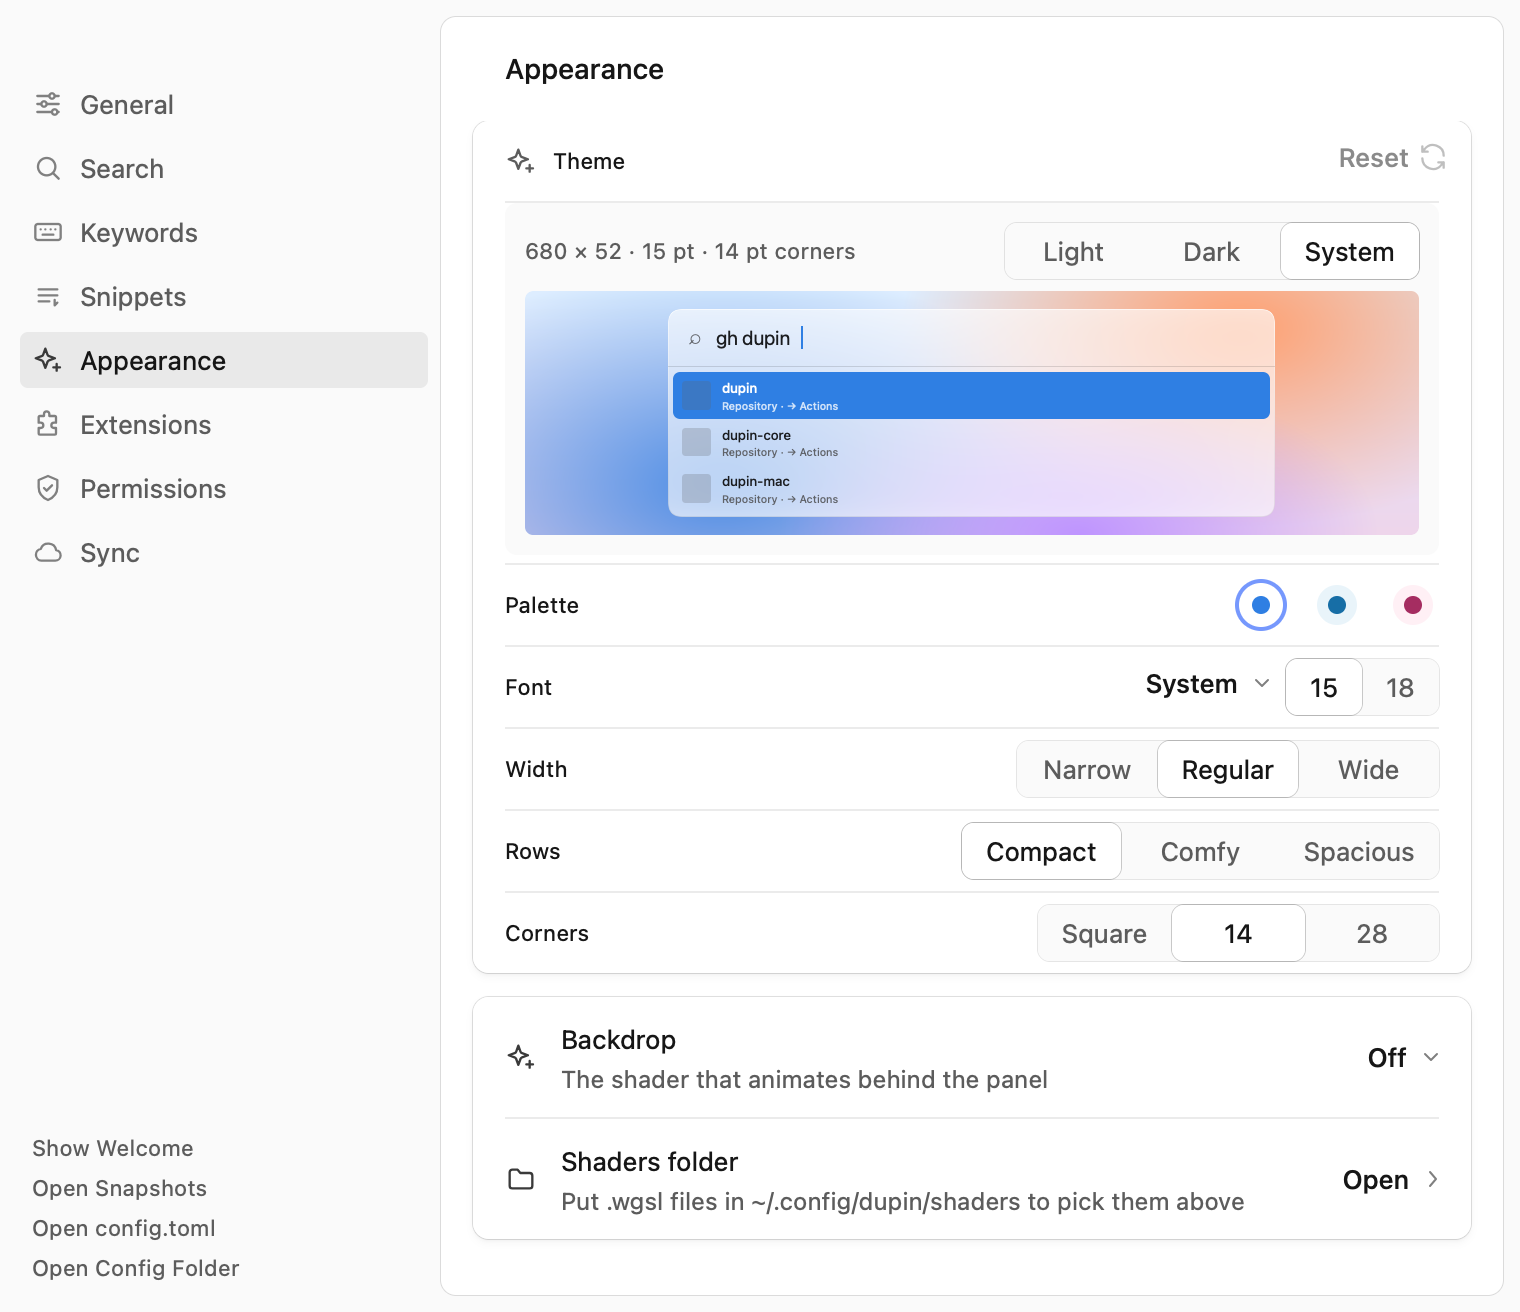
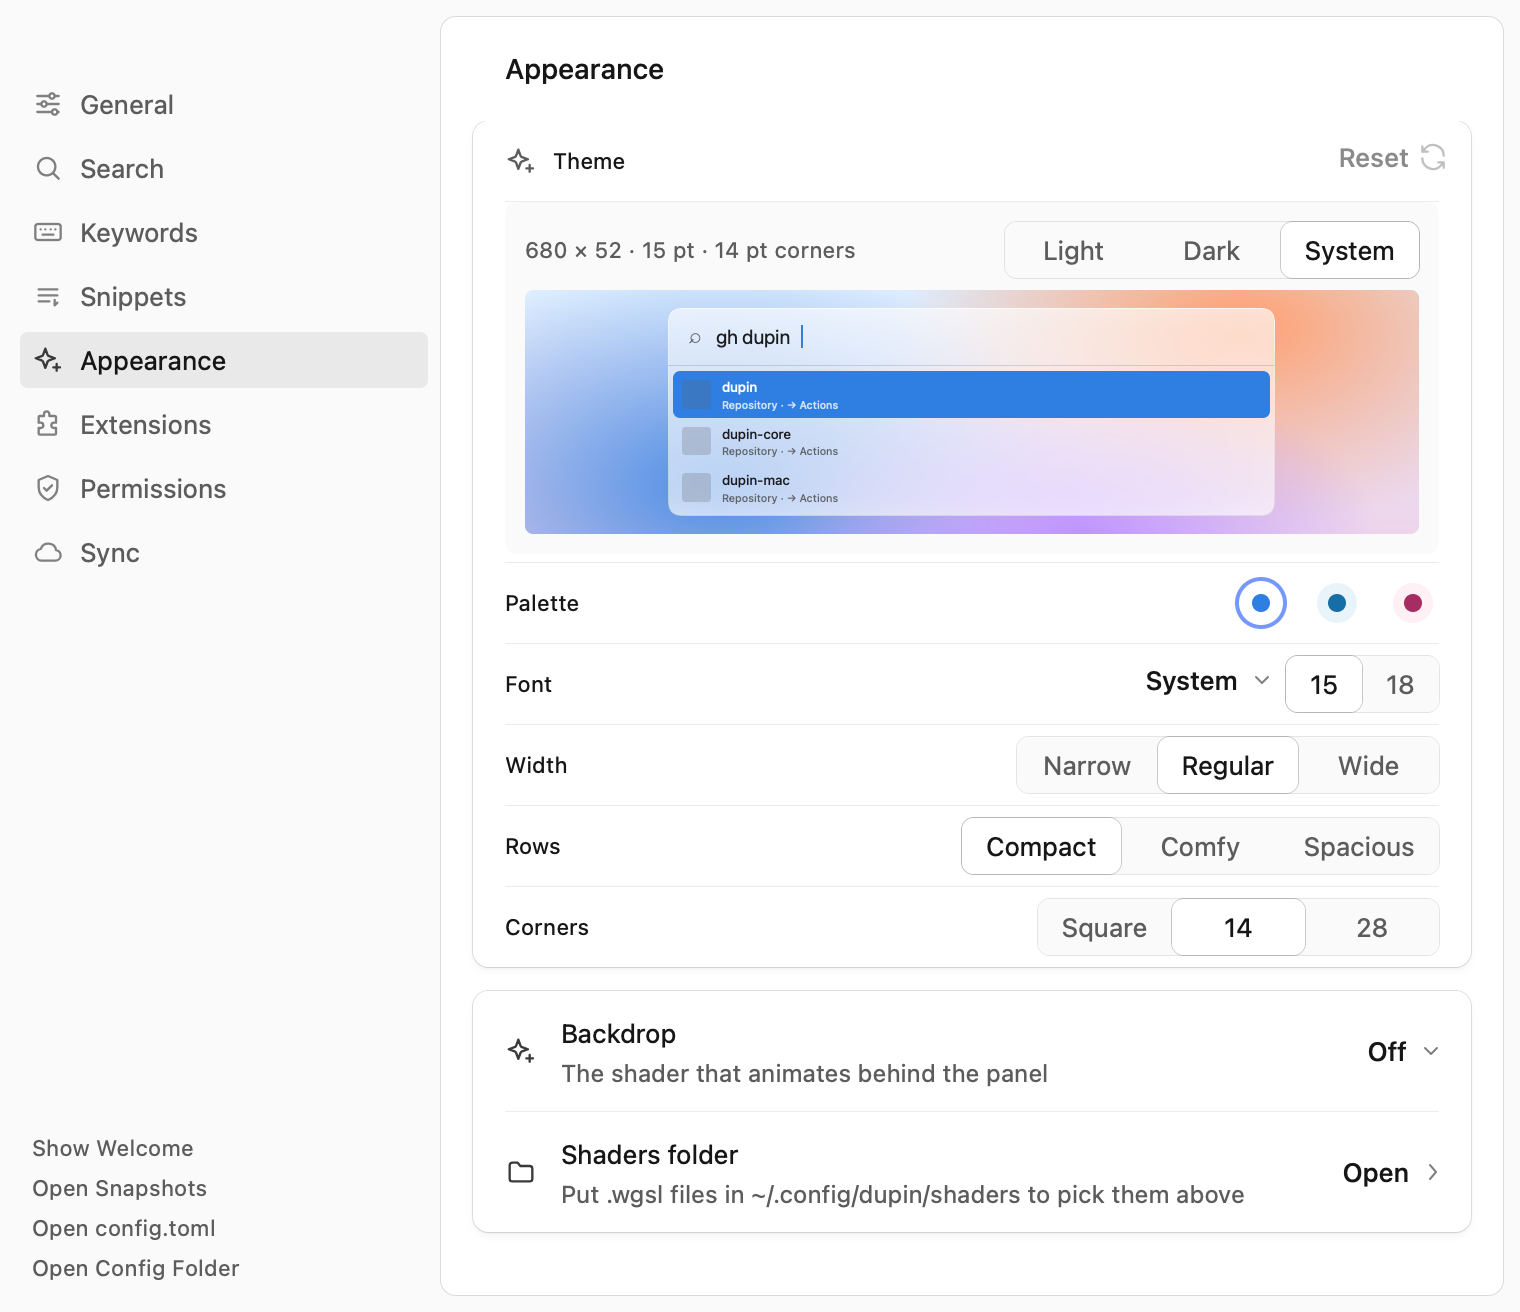
fix(settings): draw every card's separators one device pixel thick
Each page passed its own separator thickness into the shared card, so
the thickness depended on the caller: most pages passed 1/scale, but
Appearance passed 1.0 and drew 2 px hairlines at 2x. The card now draws
its own separators with Rune's `rule(0.5, ..)`, which snaps to one
device pixel at every scale. No page passes a thickness any more.

The separators still start at the rows' content edge (the icon column),
end at the card's right padding, and are not drawn after the last row.

diff --git a/crates/dupin/src/prefs/sync.rs b/crates/dupin/src/prefs/sync.rs
@@ -77,7 +77,7 @@ fn ago(at_ms: u64) -> String {
     }
 }
 
-pub(super) fn page(s: &Prefs, k: &Kit, hair: f32) -> Vec<El> {
+pub(super) fn page(s: &Prefs, k: &Kit) -> Vec<El> {
     let mut body = Vec::new();
     if let Some(problem) = &s.sync.problem {
         body.push(
@@ -93,7 +93,6 @@ pub(super) fn page(s: &Prefs, k: &Kit, hair: f32) -> Vec<El> {
     if let Some(words) = &s.sync.passphrase {
         body.push(card(
             k,
-            hair,
             vec![setting(
                 k,
                 &icons::SHIELD,
@@ -115,14 +114,14 @@ pub(super) fn page(s: &Prefs, k: &Kit, hair: f32) -> Vec<El> {
     let on = status.get("on").and_then(Value::as_bool) == Some(true);
     let leaving = status.get("leaving").and_then(Value::as_bool) == Some(true);
     if on || leaving {
-        body.extend(on_page(s, k, hair, status, leaving));
+        body.extend(on_page(s, k, status, leaving));
     } else {
-        body.extend(off_page(s, k, hair, status));
+        body.extend(off_page(s, k, status));
     }
     body
 }
 
-fn off_page(s: &Prefs, k: &Kit, hair: f32, status: &Value) -> Vec<El> {
+fn off_page(s: &Prefs, k: &Kit, status: &Value) -> Vec<El> {
     let folder = s
         .sync
         .folder
@@ -234,7 +233,7 @@ fn off_page(s: &Prefs, k: &Kit, hair: f32, status: &Value) -> Vec<El> {
         ),
     ];
     vec![
-        card(k, hair, rows),
+        card(k, rows),
         note(
             k,
             "Sync keeps your Macs' usage history in step through the folder, end-to-end encrypted: the folder's host sees no contents and no names. Settings, snippets and extensions follow.",
@@ -242,7 +241,7 @@ fn off_page(s: &Prefs, k: &Kit, hair: f32, status: &Value) -> Vec<El> {
     ]
 }
 
-fn on_page(s: &Prefs, k: &Kit, hair: f32, status: &Value, leaving: bool) -> Vec<El> {
+fn on_page(s: &Prefs, k: &Kit, status: &Value, leaving: bool) -> Vec<El> {
     let last = status.get("last").filter(|last| !last.is_null());
     let synced = last
         .and_then(|last| last.get("at"))
@@ -294,9 +293,9 @@ fn on_page(s: &Prefs, k: &Kit, hair: f32, status: &Value, leaving: bool) -> Vec<
                 .build(k),
         ));
     }
-    let mut body = vec![card(k, hair, rows)];
+    let mut body = vec![card(k, rows)];
     if !leaving {
-        body.push(card(k, hair, switches(s, k)));
+        body.push(card(k, switches(s, k)));
     }
 
     let devices: Vec<&Value> = last
@@ -332,7 +331,7 @@ fn on_page(s: &Prefs, k: &Kit, hair: f32, status: &Value, leaving: bool) -> Vec<
                 )
             })
             .collect();
-        body.push(card(k, hair, rows));
+        body.push(card(k, rows));
     }
     for line in problems(status) {
         body.push(note(k, &line));

diff --git a/crates/dupin/src/prefs/welcome.rs b/crates/dupin/src/prefs/welcome.rs
@@ -57,10 +57,10 @@ fn mark(dir: &Path) -> std::io::Result<()> {
     std::fs::write(dir.join(MARKER), "")
 }
 
-pub(super) fn page(s: &Prefs, k: &Kit, hair: f32, step: Step) -> Vec<El> {
+pub(super) fn page(s: &Prefs, k: &Kit, step: Step) -> Vec<El> {
     match step {
-        Step::Hotkey => hotkey_step(s, k, hair),
-        Step::Tour => tour_step(s, k, hair),
+        Step::Hotkey => hotkey_step(s, k),
+        Step::Tour => tour_step(s, k),
     }
 }
 
@@ -72,7 +72,7 @@ fn intro(k: &Kit, words: &str) -> El {
         .wrap()
 }
 
-fn hotkey_step(s: &Prefs, k: &Kit, hair: f32) -> Vec<El> {
+fn hotkey_step(s: &Prefs, k: &Kit) -> Vec<El> {
     let mut rows = vec![hotkey_setting(s, k), login_setting(s, k), telemetry_setting(s, k)];
     if permissions::available() {
         let review = value_button(k, "welcome-permissions", "Review", &icons::SHIELD)
@@ -91,7 +91,7 @@ fn hotkey_step(s: &Prefs, k: &Kit, hair: f32) -> Vec<El> {
             "Dupin lives in the background and opens from a hotkey in any app. Pick one you can \
              spare; Settings can change it later.",
         ),
-        card(k, hair, rows),
+        card(k, rows),
         note(
             k,
             "⌘Space is Spotlight's shortcut too. To give it to Dupin, turn off Show Spotlight search in \
@@ -102,7 +102,7 @@ fn hotkey_step(s: &Prefs, k: &Kit, hair: f32) -> Vec<El> {
     ]
 }
 
-fn tour_step(s: &Prefs, k: &Kit, hair: f32) -> Vec<El> {
+fn tour_step(s: &Prefs, k: &Kit) -> Vec<El> {
     let mode = |glyph, name: &str, detail: &str, keys: &[&str]| {
         setting(k, glyph, name, Some(detail), Keybind::new(keys).build(k))
     };
@@ -148,7 +148,7 @@ fn tour_step(s: &Prefs, k: &Kit, hair: f32) -> Vec<El> {
             k,
             "Everything starts from the one field. A few keys switch what it searches.",
         ),
-        card(k, hair, rows),
+        card(k, rows),
         note(
             k,
             "⌘, in the panel opens Settings, where Show Welcome brings this guide back. To keep several Macs in step, turn on Settings → Sync whenever you like.",

diff --git a/crates/dupin/src/prefs/keywords.rs b/crates/dupin/src/prefs/keywords.rs
@@ -221,7 +221,7 @@ impl Prefs {
     }
 }
 
-pub(super) fn page(s: &Prefs, k: &Kit, hair: f32) -> Vec<El> {
+pub(super) fn page(s: &Prefs, k: &Kit) -> Vec<El> {
     let mut body = Vec::new();
     if let Some(problem) = &s.keywords.problem {
         body.push(
@@ -234,22 +234,22 @@ pub(super) fn page(s: &Prefs, k: &Kit, hair: f32) -> Vec<El> {
                 .wrap(),
         );
     }
-    body.push(card(k, hair, command_rows(s, k)));
+    body.push(card(k, command_rows(s, k)));
     body.push(note(
         k,
         "Type a keyword, then Space, in the launcher to enter its command; type ? to list them all. Record a shortcut to reach a row from any app: a command or web search shows the panel in it, and pressing it again hides the panel; an app or file opens.",
     ));
-    body.push(card(k, hair, system_rows(s, k)));
+    body.push(card(k, system_rows(s, k)));
     body.push(note(
         k,
         "A system command's shortcut runs it without showing the panel. Restart, Shut Down, Log Out and Empty Trash show their row instead, for ↩ to ask first.",
     ));
-    body.push(card(k, hair, alias_rows(s, k)));
+    body.push(card(k, alias_rows(s, k)));
     body.push(note(
         k,
         "An alias reaches a command (calendar, dictionary, files, contents, clipboard, snippets, snapshots or an extension's package name), app:<bundle id>, web:<keyword> or file:<path>. Built-in keywords, Dictionary and snippet keywords and web searches keep theirs; an alias goes before extensions' keywords.",
     ));
-    body.push(card(k, hair, keyword_list_rows(s, k)));
+    body.push(card(k, keyword_list_rows(s, k)));
     body
 }
 

diff --git a/crates/dupin/src/prefs/mod.rs b/crates/dupin/src/prefs/mod.rs
@@ -371,19 +371,19 @@ pub fn view(s: &Prefs, cx: &mut Cx<Prefs>) -> El {
     let k = rune_theme_opencode::kit(cx.system_dark());
     let hair = 1.0 / cx.env().scale;
     let rows = match (s.welcome, s.page) {
-        (Some(step), _) => welcome::page(s, k, hair, step),
-        (None, Page::General) => general::page(s, k, hair),
-        (None, Page::Search) => search::page(s, k, hair),
-        (None, Page::Keywords) => keywords::page(s, k, hair),
-        (None, Page::Snippets) => snippets::page(s, k, hair),
+        (Some(step), _) => welcome::page(s, k, step),
+        (None, Page::General) => general::page(s, k),
+        (None, Page::Search) => search::page(s, k),
+        (None, Page::Keywords) => keywords::page(s, k),
+        (None, Page::Snippets) => snippets::page(s, k),
         (None, Page::Appearance) => appearance::page(s, k, cx.system_dark()),
         (None, Page::Extensions) => extensions::problem(s, k)
             .into_iter()
-            .chain(extensions::page(s, k, hair))
+            .chain(extensions::page(s, k))
             .collect(),
-        (None, Page::Permissions) => permissions::page(s, k, hair),
-        (None, Page::Sync) => sync::page(s, k, hair),
-        (None, Page::Updates) => updates::page(s, k, hair),
+        (None, Page::Permissions) => permissions::page(s, k),
+        (None, Page::Sync) => sync::page(s, k),
+        (None, Page::Updates) => updates::page(s, k),
     };
     let title = s.welcome.map_or(s.page.title(), welcome::Step::title);
     let panel = col()

diff --git a/crates/dupin/src/prefs/controls.rs b/crates/dupin/src/prefs/controls.rs
@@ -1,4 +1,4 @@
-use rune::{El, Icon, PopupMenu, TextStyle, Tx, col, el, icon, row, text};
+use rune::{El, Icon, PopupMenu, TextStyle, Tx, col, icon, row, rule, text};
 use rune_kit::{Kit, Select, SelectAppearance};
 
 use super::Prefs;
@@ -80,24 +80,22 @@ pub(super) fn value_button(k: &Kit, key: &str, label: &str, glyph: &'static Icon
         .child(icon(glyph, 16.0).color(c.icon_muted))
 }
 
-/// Rows on one raised card, a hairline between each.
-pub(super) fn card(k: &Kit, hair: f32, rows: Vec<El>) -> El {
-    let count = rows.len();
+/// Rows on one raised card, a device-pixel hairline between each, inset to the rows' content.
+pub(super) fn card(k: &Kit, rows: Vec<El>) -> El {
     let mut card = col().key("card").w_full().radius(k.radius.lg).fill(k.c.bg_base);
     for shadow in &k.elevation.raised {
         card = card.box_shadow(*shadow);
     }
     for (i, r) in rows.into_iter().enumerate() {
-        card = card.child(r);
-        if i + 1 < count {
+        if i > 0 {
             card = card.child(
-                el().key(format!("sep{i}"))
-                    .h(hair)
+                rule(0.5, k.c.border_muted)
+                    .key(format!("sep{i}"))
                     .mx(ROW_PX)
-                    .fill(k.c.border_muted)
                     .a11y_hidden(),
             );
         }
+        card = card.child(r);
     }
     card
 }

diff --git a/crates/dupin/src/prefs/general.rs b/crates/dupin/src/prefs/general.rs
@@ -13,7 +13,7 @@ const DISPLAY: &str = "display";
 const POSITION: &str = "position";
 const INPUT_SOURCE: &str = "input-source";
 
-pub(super) fn page(s: &Prefs, k: &Kit, hair: f32) -> Vec<El> {
+pub(super) fn page(s: &Prefs, k: &Kit) -> Vec<El> {
     let rows = vec![
         hotkey_setting(s, k),
         selection_hotkey_setting(s, k),
@@ -25,9 +25,9 @@ pub(super) fn page(s: &Prefs, k: &Kit, hair: f32) -> Vec<El> {
         telemetry_setting(s, k),
         relaunch_setting(k),
     ];
-    let mut body = vec![card(k, hair, rows)];
+    let mut body = vec![card(k, rows)];
     if !s.config.bindings.is_empty() {
-        body.push(configured_hotkeys(s, k, hair));
+        body.push(configured_hotkeys(s, k));
     }
     body
 }
@@ -425,7 +425,7 @@ fn relaunch_setting(k: &Kit) -> El {
     )
 }
 
-fn configured_hotkeys(s: &Prefs, k: &Kit, hair: f32) -> El {
+fn configured_hotkeys(s: &Prefs, k: &Kit) -> El {
     let rows = s
         .config
         .bindings
@@ -467,5 +467,5 @@ fn configured_hotkeys(s: &Prefs, k: &Kit, hair: f32) -> El {
                 .font(k.ty.body_medium)
                 .color(k.c.text_base),
         )
-        .child(card(k, hair, rows))
+        .child(card(k, rows))
 }

diff --git a/crates/dupin/src/prefs/extensions.rs b/crates/dupin/src/prefs/extensions.rs
@@ -15,8 +15,8 @@ use super::controls::{DESCRIPTION, ROW_PX, card, note, setting, setting_with_loc
 use crate::extensions::packages::{Kind, Listed};
 use crate::icons;
 
-pub(super) fn page(s: &Prefs, k: &Kit, hair: f32) -> Vec<El> {
-    let mut rows = vec![card(k, hair, vec![folder_setting(s, k)])];
+pub(super) fn page(s: &Prefs, k: &Kit) -> Vec<El> {
+    let mut rows = vec![card(k, vec![folder_setting(s, k)])];
     rows.extend(skipped(s, k));
     let Some(bridge) = &s.access else {
         return rows;
@@ -26,7 +26,6 @@ pub(super) fn page(s: &Prefs, k: &Kit, hair: f32) -> Vec<El> {
         rows.push(heading(k, "waiting", "Waiting for you"));
         rows.push(card(
             k,
-            hair,
             pending
                 .iter()
                 .enumerate()
@@ -55,7 +54,7 @@ pub(super) fn page(s: &Prefs, k: &Kit, hair: f32) -> Vec<El> {
                 }
             ),
         ));
-        rows.push(card(k, hair, package_rows(bridge, k, index, extension)));
+        rows.push(card(k, package_rows(bridge, k, index, extension)));
     }
     for problem in bridge.problems() {
         rows.push(note(k, &problem));

diff --git a/crates/dupin/src/prefs/snippets.rs b/crates/dupin/src/prefs/snippets.rs
@@ -170,7 +170,7 @@ fn preview(text: &str) -> String {
     }
 }
 
-pub(super) fn page(s: &Prefs, k: &Kit, hair: f32) -> Vec<El> {
+pub(super) fn page(s: &Prefs, k: &Kit) -> Vec<El> {
     let mut body = Vec::new();
     for (index, line) in s.snippets.outcome.iter().chain(&s.snippets.notices).enumerate() {
         body.push(
@@ -184,7 +184,7 @@ pub(super) fn page(s: &Prefs, k: &Kit, hair: f32) -> Vec<El> {
         );
     }
     match &s.snippets.editor {
-        Some(editor) => body.push(card(k, hair, editor_rows(s, k, editor))),
+        Some(editor) => body.push(card(k, editor_rows(s, k, editor))),
         None => body.push(
             row().w_full().px(ROW_PX).child(
                 Button::new("Add Snippet")
@@ -201,7 +201,7 @@ pub(super) fn page(s: &Prefs, k: &Kit, hair: f32) -> Vec<El> {
             "No snippets yet. Add one here, or type snip, then Space, in the launcher.",
         ));
     } else {
-        body.push(card(k, hair, snippet_rows(s, k)));
+        body.push(card(k, snippet_rows(s, k)));
     }
     body.push(note(
         k,

diff --git a/crates/dupin/src/prefs/search.rs b/crates/dupin/src/prefs/search.rs
@@ -12,7 +12,7 @@ const FILE_LIMITS: [usize; 4] = [50, 100, 200, 500];
 const FILE_LIMIT: &str = "file-limit";
 const CLIPBOARD_RETENTION: &str = "clipboard-retention";
 
-pub(super) fn page(s: &Prefs, k: &Kit, hair: f32) -> Vec<El> {
+pub(super) fn page(s: &Prefs, k: &Kit) -> Vec<El> {
     let mut rows = vec![
         calculator_setting(s, k),
         currency_setting(s, k),
@@ -27,7 +27,7 @@ pub(super) fn page(s: &Prefs, k: &Kit, hair: f32) -> Vec<El> {
         window_management_setting(k),
     ];
     rows.extend(snippet_accessibility(s, k));
-    let mut body = vec![card(k, hair, rows)];
+    let mut body = vec![card(k, rows)];
     body.extend(
         s.scripts_notice
             .as_deref()

diff --git a/crates/dupin/src/prefs/updates.rs b/crates/dupin/src/prefs/updates.rs
@@ -8,7 +8,7 @@ use crate::update::Status;
 
 /// Whether to install updates by themselves, and where the updater is: the version, what it
 /// is doing, and the one thing to do next.
-pub(super) fn page(s: &Prefs, k: &Kit, hair: f32) -> Vec<El> {
+pub(super) fn page(s: &Prefs, k: &Kit) -> Vec<El> {
     let locked = s.locked("auto_update");
     let next_auto_update = !s.config.auto_update;
     let auto = Switch::new(s.config.auto_update)
@@ -51,7 +51,7 @@ pub(super) fn page(s: &Prefs, k: &Kit, hair: f32) -> Vec<El> {
             action,
         ),
     ];
-    vec![card(k, hair, rows)]
+    vec![card(k, rows)]
 }
 
 pub(super) fn footer(s: &Prefs, k: &Kit) -> El {

diff --git a/crates/dupin/src/prefs/permissions.rs b/crates/dupin/src/prefs/permissions.rs
@@ -192,14 +192,14 @@ fn entry_row(s: &Prefs, k: &Kit, index: usize, permission: Permission, status: P
     )
 }
 
-pub(super) fn page(s: &Prefs, k: &Kit, hair: f32) -> Vec<El> {
+pub(super) fn page(s: &Prefs, k: &Kit) -> Vec<El> {
     let rows = used_permissions()
         .zip(&s.permissions)
         .enumerate()
         .map(|(i, (permission, status))| entry_row(s, k, i, permission, *status))
         .collect();
     vec![
-        card(k, hair, rows),
+        card(k, rows),
         note(
             k,
             "Dupin can ask for access when you enable or first use a feature that needs it, \

diff --git a/crates/dupin/src/prefs/appearance.rs b/crates/dupin/src/prefs/appearance.rs
@@ -44,7 +44,6 @@ pub(super) fn page(s: &Prefs, k: &Kit, dark: bool) -> Vec<El> {
         theme_card(s, k, dark),
         card(
             k,
-            1.0,
             vec![
                 setting_with_lock(
                     k,
@@ -438,7 +437,6 @@ fn theme_card(s: &Prefs, k: &Kit, dark: bool) -> El {
     ));
     card(
         k,
-        1.0,
         vec![
             row()
                 .w_full()
